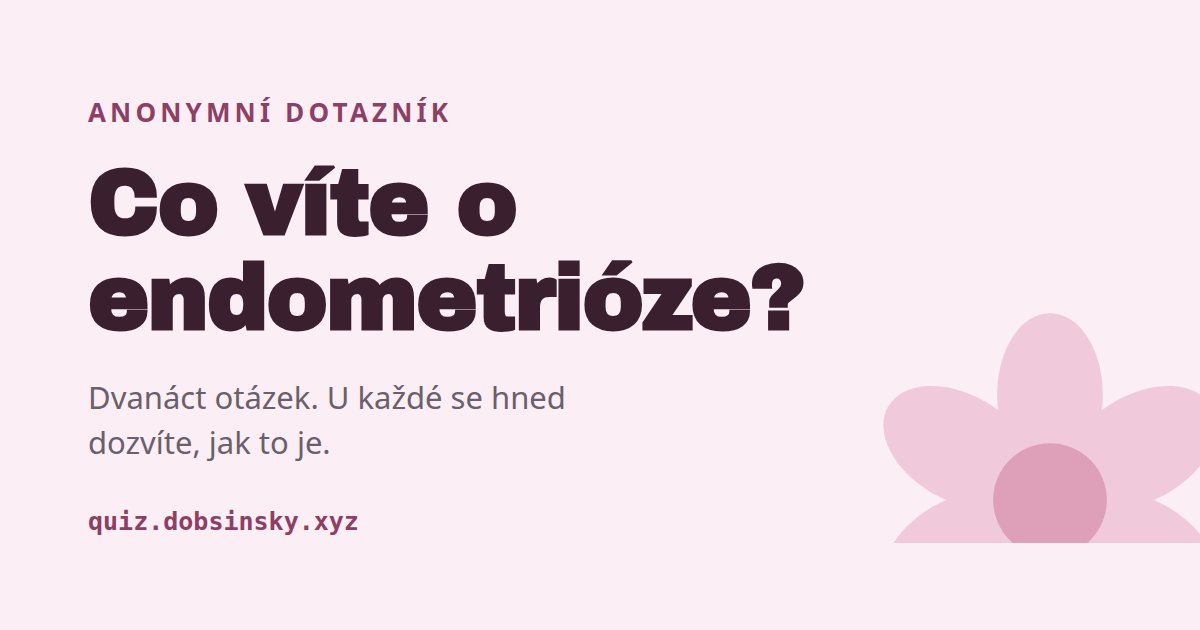
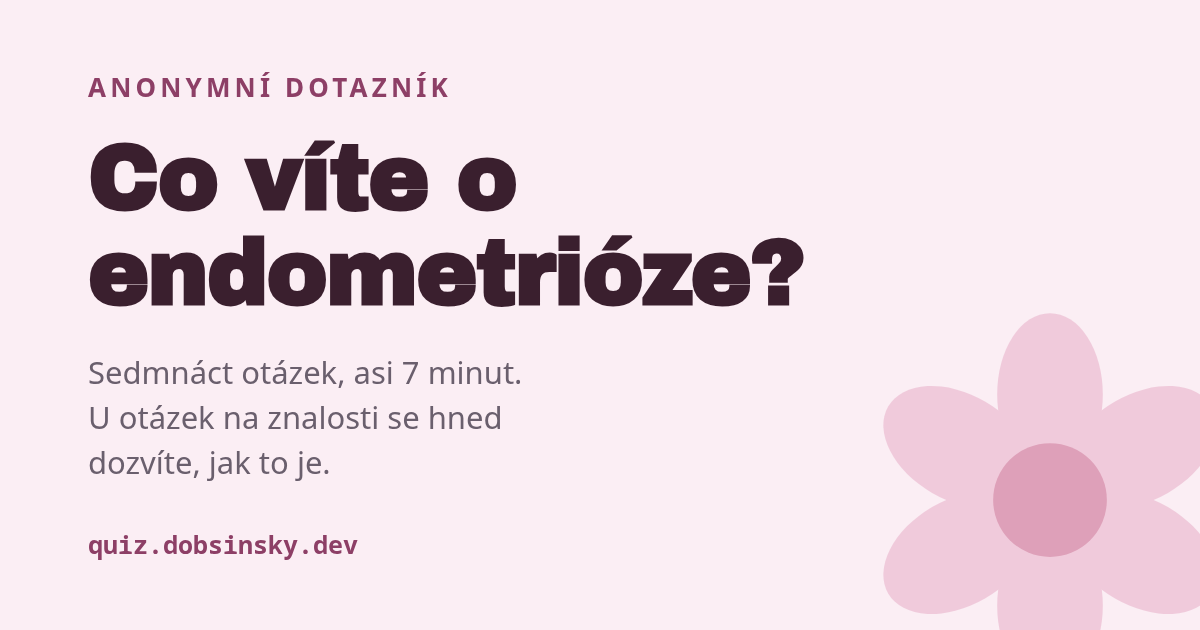
quiz: link preview says 17 questions, ~7 min, and the .dev domain
The card still said twelve questions and showed the old .xyz domain, and
claimed every question reveals the answer - only the knowledge ones do.

diff --git a/quiz/site/index.html b/quiz/site/index.html
@@ -24,7 +24,7 @@
 <meta property="og:locale:alternate" content="en_GB">
 <meta property="og:url" content="https://quiz.dobsinsky.dev/">
 <meta property="og:title" content="Co víte o endometrióze?">
-<meta property="og:description" content="Anonymní dotazník pro odbornou práci. Dvanáct otázek - u každé se hned dozvíte, jak to je.">
+<meta property="og:description" content="Anonymní dotazník pro odbornou práci. Sedmnáct otázek, asi 7 minut - u otázek na znalosti se hned dozvíte, jak to je.">
 <meta property="og:image" content="https://quiz.dobsinsky.dev/img/og.png">
 <meta property="og:image:width" content="1200">
 <meta property="og:image:height" content="630">

diff --git a/quiz/tools/og-card.html b/quiz/tools/og-card.html
@@ -62,7 +62,7 @@
 
 <div class="eyebrow">Anonymní dotazník</div>
 <h1>Co víte o endometrióze?</h1>
-<p>Dvanáct otázek. U každé se hned dozvíte, jak to je.</p>
+<p>Sedmnáct otázek, asi 7&nbsp;minut. U&nbsp;otázek na znalosti se hned dozvíte, jak to je.</p>
 <div class="url">quiz.dobsinsky.dev</div>
 
 <svg class="mark" width="520" height="520" viewBox="0 0 64 64">
